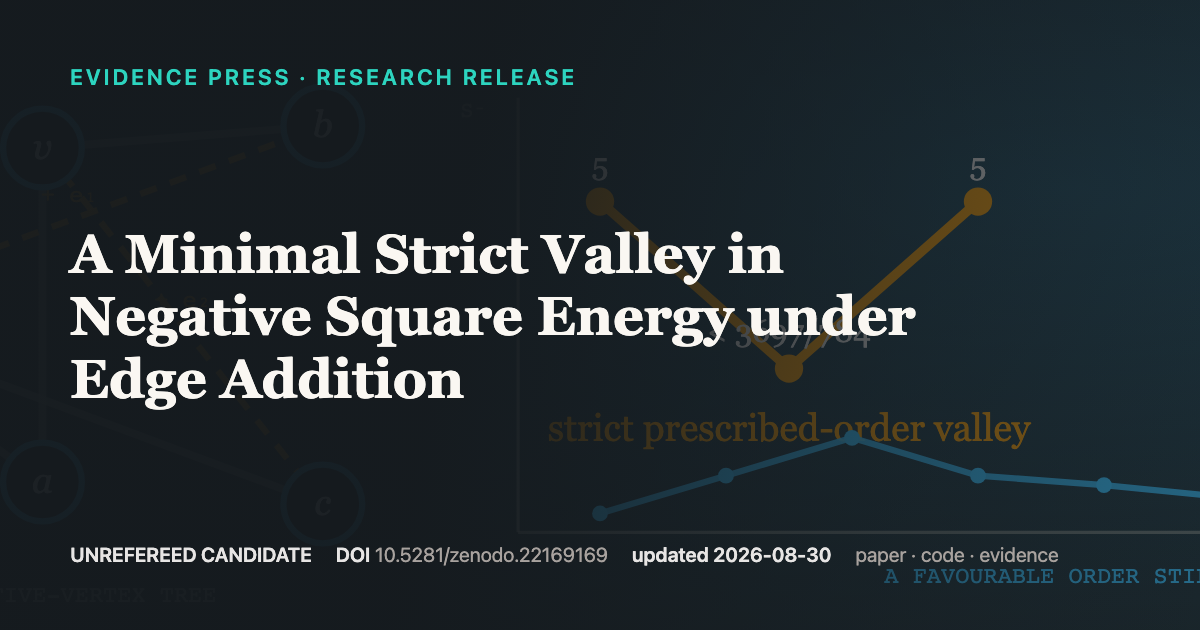
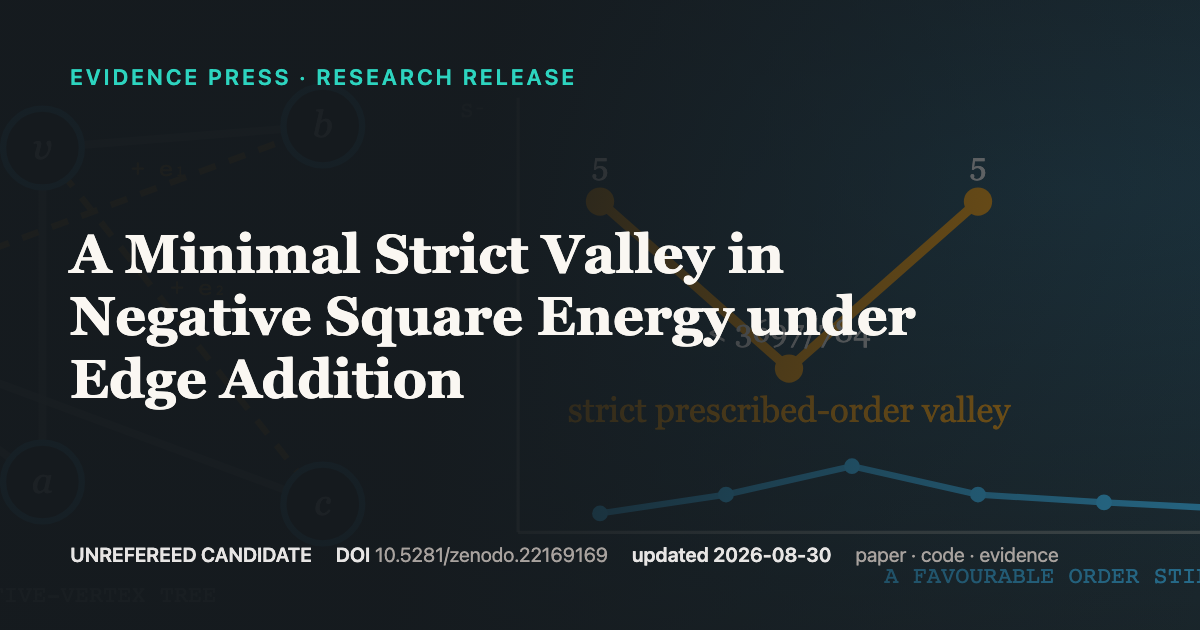
Repair negative square-energy hero spacing

Changed region(s): [[0.4625, 0.6333, 1.0, 0.8143]]

diff --git a/tools/make-art.js b/tools/make-art.js
@@ -1281,10 +1281,14 @@ art['negative-square-energy-five-vertex-valley'] = (a, b) => {
     const [x1, y1] = nodes[left], [x2, y2] = nodes[right];
     s += `<line x1="${x1}" y1="${y1}" x2="${x2}" y2="${y2}" stroke="#8a938f" stroke-width="5" opacity=".72"/>`;
   }
-  for (const [left, right, label] of [['u', 'b', '+ e₁'], ['v', 'c', '+ e₂']]) {
+  const additions = [
+    ['u', 'b', '+ e₁', 320, 112],
+    ['v', 'c', '+ e₂', 345, 187]
+  ];
+  for (const [left, right, label, labelX, labelY] of additions) {
     const [x1, y1] = nodes[left], [x2, y2] = nodes[right];
     s += `<line x1="${x1}" y1="${y1}" x2="${x2}" y2="${y2}" stroke="${b}" stroke-width="4" stroke-dasharray="11 9" opacity=".94"/>`;
-    s += `<text x="${(x1 + x2) / 2}" y="${(y1 + y2) / 2 - 12}" text-anchor="middle" font-family="ui-monospace,monospace" font-size="15" fill="${b}">${label}</text>`;
+    s += `<text x="${labelX}" y="${labelY}" text-anchor="middle" font-family="ui-monospace,monospace" font-size="15" fill="${b}">${label}</text>`;
   }
   for (const [label, [x, y]] of Object.entries(nodes)) {
     s += `<circle cx="${x}" cy="${y}" r="25" fill="#151a1e" stroke="${a}" stroke-width="4"/>`;
@@ -1303,10 +1307,10 @@ art['negative-square-energy-five-vertex-valley'] = (a, b) => {
     s += `<circle cx="${x}" cy="${y}" r="9" fill="${b}"/>`;
     s += `<text x="${x}" y="${y - 17}" text-anchor="middle" font-family="Georgia" font-size="20" fill="#e7e5e4">${i === 1 ? '&lt; 3697/784' : '5'}</text>`;
   }
-  s += `<text x="720" y="280" text-anchor="middle" font-family="Georgia" font-size="24" fill="${b}">strict prescribed-order valley</text>`;
+  s += `<text data-art-role="valley-label" x="720" y="268" text-anchor="middle" font-family="Georgia" font-size="22" fill="${b}">strict prescribed-order valley</text>`;
 
-  const fav = [[600, 326], [680, 302], [760, 278], [840, 302], [920, 308], [1000, 316], [1080, 326]];
-  s += `<path d="M ${fav.map(([x,y]) => `${x} ${y}`).join(' L ')}" fill="none" stroke="${a}" stroke-width="4" opacity=".9"/>`;
+  const fav = [[600, 326], [680, 314], [760, 296], [840, 314], [920, 319], [1000, 323], [1080, 326]];
+  s += `<path data-art-role="favourable-trace" d="M ${fav.map(([x,y]) => `${x} ${y}`).join(' L ')}" fill="none" stroke="${a}" stroke-width="4" opacity=".9"/>`;
   for (const [x, y] of fav) s += `<circle cx="${x}" cy="${y}" r="5" fill="${a}"/>`;
   s += `<text x="920" y="370" text-anchor="middle" font-family="ui-monospace,monospace" font-size="15" fill="${a}">A FAVOURABLE ORDER STILL EXISTS</text>`;
   return s;

diff --git a/tests/release-corpus.spec.js b/tests/release-corpus.spec.js
@@ -96,3 +96,23 @@ test('all release hero SVG text remains inside its viewBox', async ({ page }) =>
 
   expect(failures, failures.join('\n')).toEqual([]);
 });
+
+test('negative square-energy hero separates the valley label from the favourable trace', async ({ page }) => {
+  const response = await page.goto(
+    'http://127.0.0.1:8080/assets/art/negative-square-energy-five-vertex-valley.svg',
+    { waitUntil: 'load' }
+  );
+  expect(response && response.status()).toBe(200);
+
+  const spacing = await page.evaluate(() => {
+    const label = document.querySelector('[data-art-role="valley-label"]');
+    const trace = document.querySelector('[data-art-role="favourable-trace"]');
+    if (!label || !trace) return null;
+    const labelBox = label.getBBox();
+    const traceBox = trace.getBBox();
+    return traceBox.y - (labelBox.y + labelBox.height);
+  });
+
+  expect(spacing, 'expected named SVG regions for the spacing regression').not.toBeNull();
+  expect(spacing, 'valley label needs a visible gap above the favourable trace').toBeGreaterThanOrEqual(12);
+});
